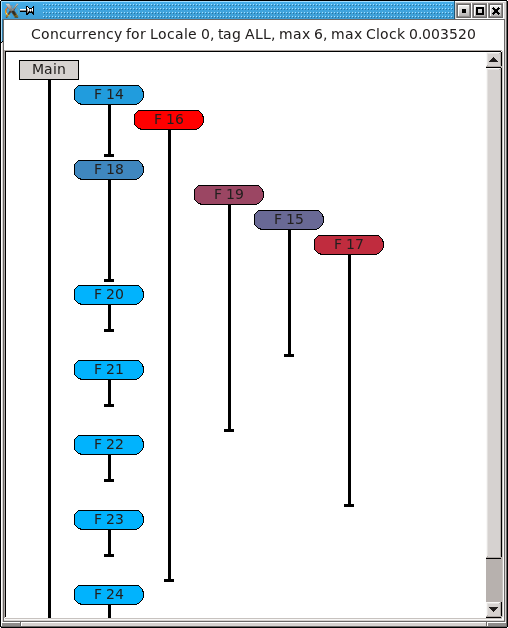
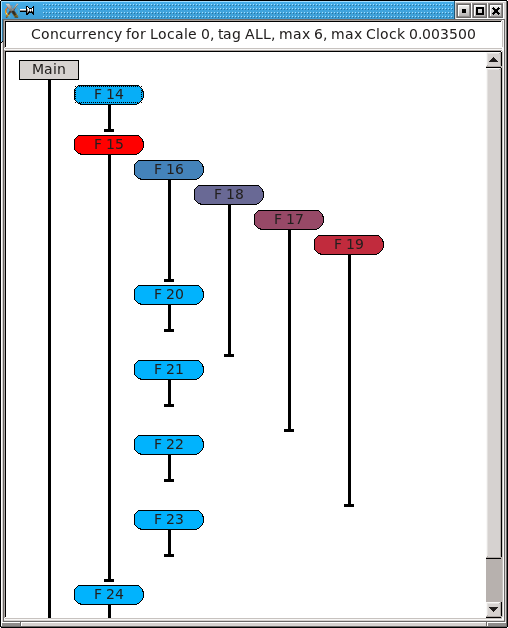
Add a new exammple, make changes suggested by Lydia

diff --git a/doc/chplvis/chplvis.rst b/doc/chplvis/chplvis.rst
@@ -23,7 +23,8 @@ run *chplvis*.  (Note: Some versions of Linux may require the
 standard package *libx11-dev* to be installed before *FLTK* will
 compile properly.)  To get the most out of this primer, you should
 compile and run the example programs and examine
-the *VisualDebug* results with *chplvis*.  The graphics
+the *VisualDebug* results with *chplvis*.  The example programs
+are found on the path examples/primers/chplvis.  The graphics
 in this primer were produced on a system using the *fifo* threads
 instead of the default, *qthreads*, for the tasking layer.   If you use
 *qthreads*, your task count may differ from the examples.
@@ -40,15 +41,15 @@ of their program.  Compilation and execution of these programs remain the
 same.  When the *startVdebug(name)* is executed, a collection
 of files, one per locale, are created in a directory with the *name* given
 in *startVdebug(name)*.
-</p>
 
 Example 1
 ---------
 
-Consider the chapel program: (prog1.chpl)
+Consider the chapel program prog1.chpl: (The example programs in this
+primer are found in the directory examples/primers/chplvis in your
+distribution tree.  The files have more comments than are shown here.)
 
 ::
-
      //  Example 1 using visual debug
 
      use VisualDebug;
@@ -87,7 +88,9 @@ chplvis Elements
   number of tasks run at that locale.  For example 1, we can see that
   locale 0 has the most tasks and we expect that to be 12 since that
   is the maximum number of tasks as shown by the color reference in
-  the information box at the top of the window.
+  the information box at the top of the window.  Hover your mouse over
+  a locale and it will display a "tooltip" that is the value for
+  that locale.
 
 - *Communication links* are shown by lines between two
   locale boxes.  The color of the line adjacent to a locale box 
@@ -101,13 +104,14 @@ chplvis Elements
   If communication is only one way, the communication color for
   *no communication* is gray.
 
-- The *Data menu* controls what data is used for display colors.  This
-  initial data is number of tasks for locales and number of
-  communications calls for the communication links.  For locales, one
-  can select number of tasks, CPU time at the locale, clock time or
-  concurrency at the locale.  Clock time is normally very close to
-  equal across all locales.  For the communication links, one can
-  select number of communications or size of data sent.</li>
+- The *Data menu* controls what data is used for the display colors
+  and available tooltip values.  This initial data is number of tasks
+  for locales and number of communications calls for the communication
+  links.  For locales, one can select number of tasks, CPU time at the
+  locale, clock time or concurrency at the locale.  Clock time is
+  normally very close to equal across all locales.  For the
+  communication links, one can select number of communications or size
+  of data sent.
 
 Display Interaction
 -------------------
@@ -126,20 +130,28 @@ from the task count the overhead tasks but it can not remove the
 CPU and clock time overhead.)
 
 When the locale data selected is 'concurrency', clicking on a locale
-will bring up a window that shows task on the locale.  This display
-shows the order the tasks are executed and the color of each task
-shows the clock time for that task.   For example, locale 0 for this
-example shows the window:
+will bring up a window that shows a task timeline for the locale.
+This display shows the order the tasks are executed and the color of
+each task shows the clock time for that task.  *Note:* The task order
+may change from run to run.  The following shows one possible execution
+order of the tasks:
 
 .. image:: E1-L0-cw.png
 
-In this concurrency display, hovering the mouse over a task will
-bring up a "tooltip" that shows the clock time taken by that task,
-and if available, the source file name and line number of the code
-that started that task.
+In this concurrency display, hovering the mouse over a task will bring
+up a "tooltip" that shows the clock time taken by that task, the
+number of *gets*, *puts* and *forks* performed by that task and if
+available, the source file name and line number of the code that
+started that task.  If the task has communication, clicking on the
+task will cause the task's communications to be listed in the window
+similar to the following:
 
-In the main window, clicking on the red part of the line between
-locale 0 and locale 1 will produce a window that looks like:
+.. image:: E1-L0-tc.png
+
+In the main window, clicking on a communicaton line will create a
+window with communication information for that link.  Clicking red
+part of the line between locale 0 and locale 1 will produce a window
+that looks like:
 
 .. image:: E1-C1.0.png
 
@@ -158,8 +170,6 @@ out into three components:
     on locale 0.  As part of the task start, a block of data is sent to
     locale 0 as an argument to the task.  This data is considered a
     communication call  by *chplvis*.
-
-
 
 
 Example 2
@@ -219,7 +229,8 @@ gives an example of using the *VisualDebug* functions
 
 Note that the *startVdebug("E2");* is placed after the declarations
 so that tasks and communication for the declarations are not included.
-The initial display of *chplvis* shows data for the entire run.
+The initial display of *chplvis* shows data for the entire run. (This
+program was run on five locales.)
 
 .. image:: E2-1.png
 
@@ -229,14 +240,11 @@ gives the following display:
 
 .. image:: E2-2.png
 
-Notice that the tag names are in parentheses.  If a *tagVdebug()*
-call is executed more than once, each execution will end up with a
-different tag number.  It is possible that this menu could be very long and
-require scrolling to see all menu options.  There are two special
-tags in this menu, *All* and *Start*.   *All* shows the
-initial display for the entire run and *Start* shows the tasks and
-communication only between the *startVdebug("E2");* call and the
-first call to *tagVdebug()*, in this case, *tagVdebug("writeln 1")*.
+There are two special tags in this menu, *All* and *Start*.  *All*
+shows the initial display for the entire run and *Start* shows the
+tasks and communication only between the *startVdebug("E2");* call and
+the first call to *tagVdebug()*, in this case, *tagVdebug("writeln
+1")*.
 
 Selecting the tag menu option *Start* displays data for all
 code between *startVdebug("E2")* and *tagVdebug("writeln 1")*.
@@ -277,7 +285,7 @@ Now, consider the *writeln 1* tag display.
 .. image:: E2-4.png
 
 Notice the gray communication links.  This means there was no data
-flow from locale 0 to the other locales.   The gray links was provided
+flow from locale 0 to the other locales.   The gray links are provided
 to make it easy to visually see the corresponding locale.
 
 Finally, for completeness, look at the display for the last tag
@@ -286,14 +294,120 @@ tag.
 
 .. image:: E2-6.png
 
+
+Example 3
+---------
+
+The program djacobi.chpl is similar to the program
+examples/programs/jacobi.chpl.  This version uses dmapped domains
+and VisualDebug.  Only parts of the code are shown to illustrate
+other *chplvis* features.  First, config variables are handy here so one
+can create different directories of chplvis data on different runs.
+Although not shown here, config params are useful to allow your
+program to use VisualDebug and generate data only if you need it.
+
+::
+   
+    // Allow different runs to create different data directories so it is
+    // easier to compare runs with chplvis.
+    config var dirname = "E3";
+
+    // Start VisualDebug here to see that distributed domain and variable
+    // declarations generate tasks and communication.
+    startVdebug(dirname);
+
+Next, if *tagVdebug()* calls are made inside a loop, it produces a unique tag for each call. 
+
+::
+   
+   // Main computation loop -- we want to see the two parts of this
+   // loop, the computation and the reduction part.
+
+   while (delta > epsilon) {
+
+     // Tag the computation part of this loop 
+     tagVdebug("computation");
+
+     for t in 1 .. compLoop do {
+       forall (i,j) in R {
+         A(i,j) = Temp(i,j);
+         Temp(i,j) = (A(i-1,j) + A(i+1,j) + A(i,j-1) + A(i,j+1)) / 4.0;
+       }
+     }
+  
+     // tag the reduction part of this loop.
+     tagVdebug("max");
+     forall (i,j) in R {
+       Diff(i,j) = abs(Temp(i,j)-A(i,j));
+     }
+     delta = max reduce Diff;
+
+     pauseVdebug();
+     iteration += compLoop;
+     if (verbose) {
+       writeln("iteration: ", iteration);
+       writeln("delta:     ", delta);
+       writeln(A);
+     }
+   }
+
+We use *pauseVdebug()* here to make sure chplvis data is generated for
+the parts of the loop of interest.
+
+This example was run with the command line arguments *--n=16 -nl 8".
+The following shows the default *tags* menu for this run:
+
+.. image:: E3-1.png
+
+Notice that the tags are now numbered and the tags menu extends past
+the end of the window. (This screeshot does not show the entire tags
+menu that was displayed on the screen.)  *All* and *Start* remain the
+same, but since two or more tags have the same name, *chplvis* shows a
+unique tag for each *tagVdebug()* call.  Notice the new menu item
+above *All* which is highlited in this example.  *Merge Tags* allows
+you to see data for tags with the same name to be merged together.
+For this example, with merged tags, the tags menu now looks like:
+
+.. image:: E3-2.png
+
+Now, selecting the tag *computation* will show the accumulated tasks and
+communication for the entire *while* loop for just the computation
+part of the loop.  This is all code between the *tagVdebug("computation")*
+call and the *tagVdebug("max")* call.   Selecting the tag *max* will
+then show accumulated tasks and communication for the code between
+the *tagVdebug("max")* call and the *pauseVdebug()* call.  The following
+shows the display for the *computation* tags and displaying *CPU* data.
+
+.. image:: E3-3.png
+
+The concurrency display is not available for tags in the "merge tag mode"
+except the *All* tag, which is the same for both tags mode.
+
+This example has some extra config variables that can be used to help
+understand the usefulness of *chplvis*.  For example, one can compare
+the CPU time used between the *computation* and *max* phases of this
+Jacobi computation.  The config variable *compLoop* allows one to run
+the computation loop more than once before than checking for convergence
+in the *max* tagged code.  It is know that the Jacobi code will not
+diverge and thus extra computation steps will not produce a "wrong"
+answer.  By doing extra computation, the result will be a bit more
+accurate.  The reader should use the *compLoop* and the *dirname*
+config variables to run several versions of this program yeilding
+a *chplvis* directory for each run.  Then one can compare the different
+results by running *chplvis* multiple times.  By a good choice of
+the *compLoop* variable, one can dramatically reduce the CPU time for
+computing the *max* while not increasing the *computation* time by much.
+
 ..  Find more examples to show off more of chplvis 
 
 ..  Give examples of how to find problems. 
 
-
-
 Final Comments
 --------------
+
+*chplvis* was created in 2015 and first released with Chapel-1.12.0.
+The Chapel team hopes this tool will be of use to Chapel programmers
+and would like feedback on this tool.
 
 The following items are not covered above:
 
@@ -313,3 +427,17 @@ The following items are not covered above:
     **.Vdebug** which is generated if the *startVdebug()*
     function is given a string of zero length.  ("")
 
+  - In all the examples given, all calls to *xVdebug()* routines were
+    essentially in the *main* program.   While this will not be the case
+    in all programs, a couple of thinges should be noted.
+
+    - All calls run code on all locales.
+
+    - Calls should not be made in *on* statements.  While that program
+      should run, the *chplvis* data will mostly likely not make much
+      sense.
+
+    - Calls should not be made in *begin* statements for similar reasons.
+
+
+:Author: Philip A. Nelson
